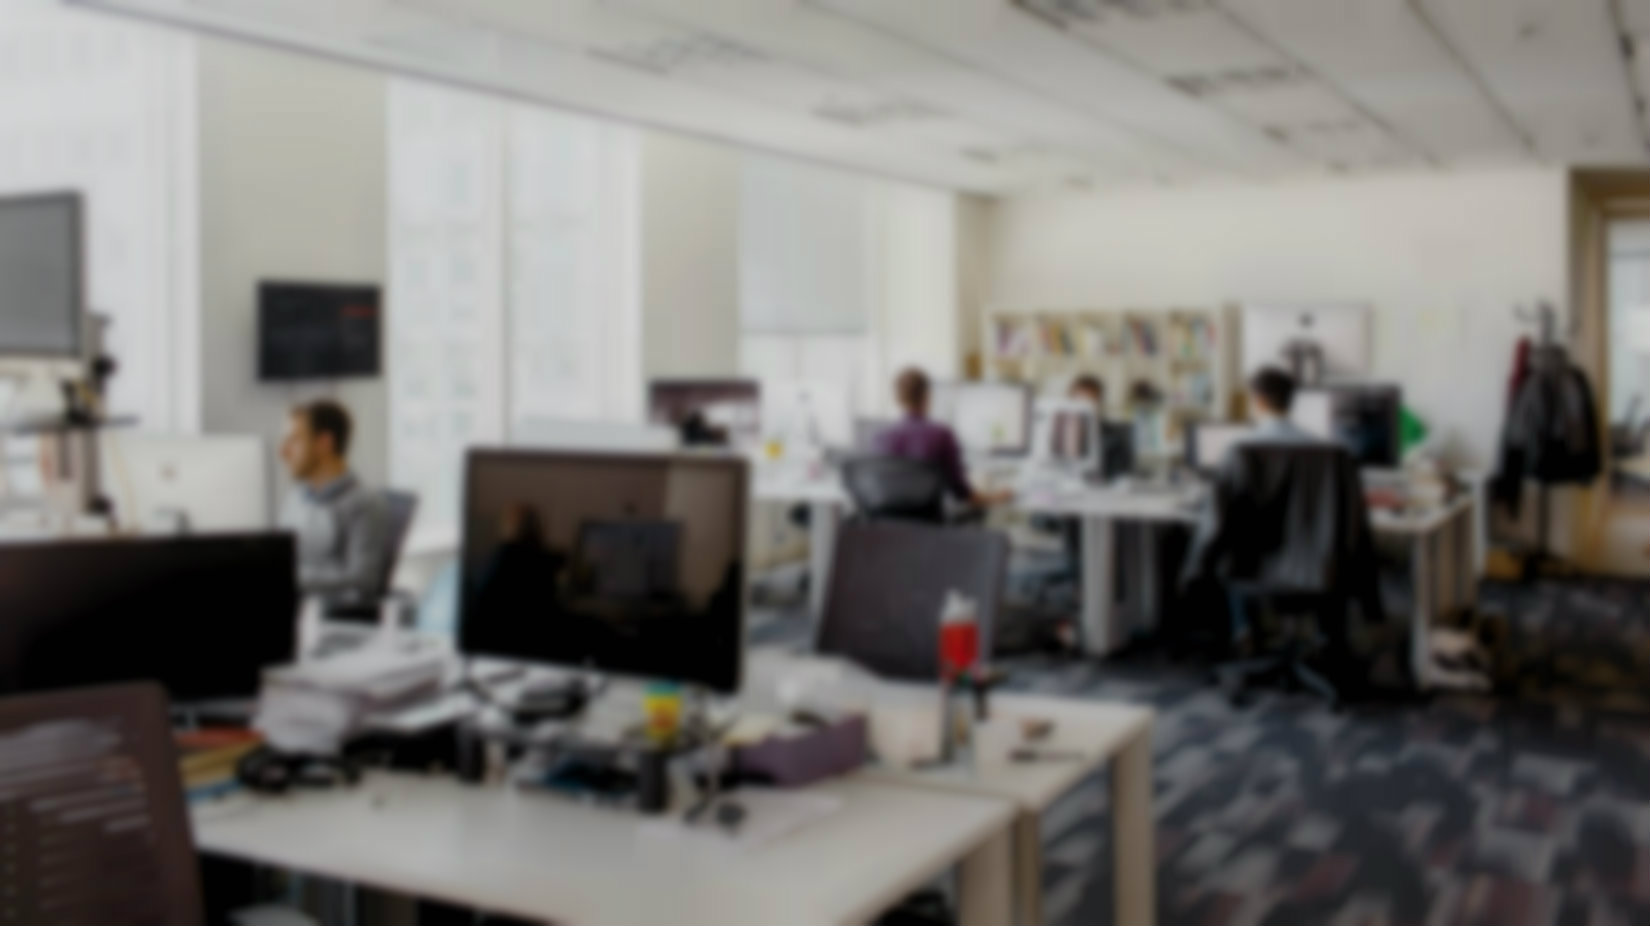
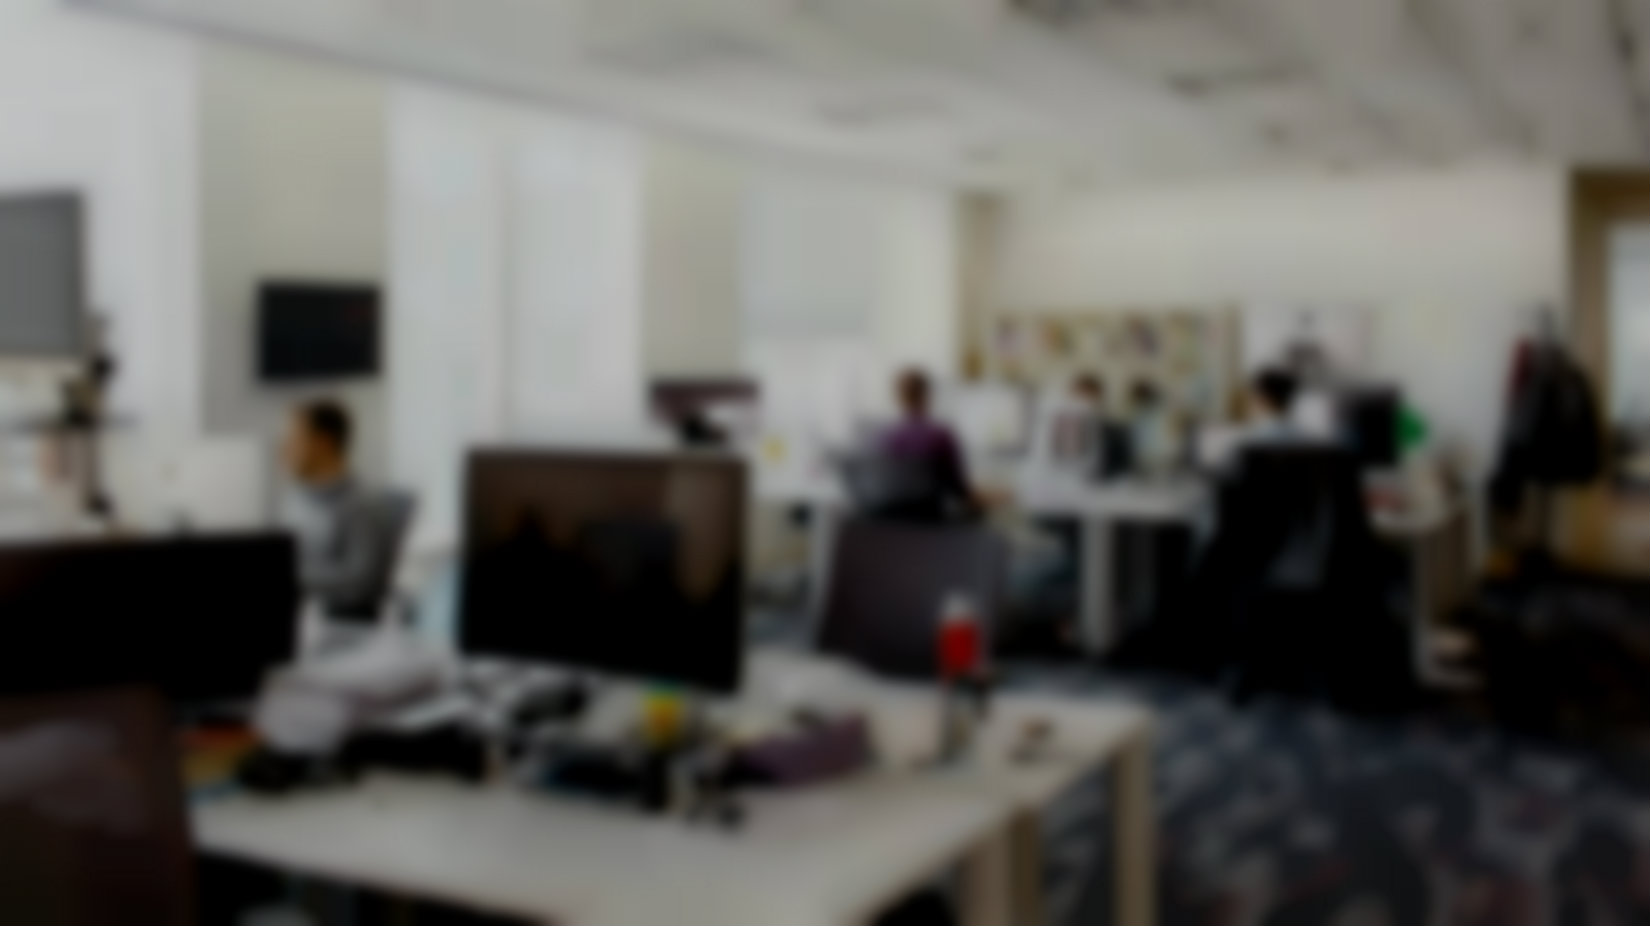
Added a simple descriptive webapp to enhance our pitching and venturing skills

diff --git a/web/index.html b/web/index.html
@@ -5,12 +5,13 @@
     <meta http-equiv="X-UA-Compatible" content="IE=edge">
     <meta name="viewport" content="width=device-width, initial-scale=1">
 
-    <title>Virtuwallet</title>
+    <title>Transactual</title>
 
     <link rel="stylesheet" type="text/css" href="css/style.css">
     <link rel="stylesheet" type="text/css" href="css/bootstrap.min.css">
 
-    <link href="https://fonts.googleapis.com/css?family=Fira+Sans|Kanit" rel="stylesheet">
+    <script src="https://use.fontawesome.com/f340fcd75c.js"></script>
+    <link href="https://fonts.googleapis.com/css?family=Work+Sans|Kanit" rel="stylesheet">
     <link rel="shortcut icon" href="favicon.png" type="image/png">
 
   </head>
@@ -18,10 +19,28 @@
   <body>
 
     <div id="intro">
-      <h1>Virtuwallet</h1>
-      <h2>Know how much you spend virtually.</h2>
-      <button type="button"></button>
-      <p></p>
+      <i class="fa fa-money fa-4x introText" aria-hidden="true"></i>
+      <h1 class="introText">Transactual</h1>
+      <h2 class="introText">Know how much you spend virtually.</h2>
+      <button id="introBtn" class="btn btn-default" type="button">Try it out!</button>
+    </div>
+
+    <div id="description">
+      <i class="fa fa-lightbulb-o fa-4x" aria-hidden="true" style="padding-bottom:10px"></i>
+      <p class="descriptionText">With cutting-edge technology making payments faster more intuitive,
+         it's important to keep track of your spendings. Transactual is a program that will help you track your phone tap
+           spendings.<br>Just message the program bot and ask for things like,<br><br>
+         <i>"How much did I spend on my last transaction?"</i> <br>or<br>
+         <i>"What were my spendings last week?"</i><br><br> Transactual will answer your question in mere seconds, giving you the flexibility and swiftness
+         that third party apps and websites cannot provide.<br><br>Now, go back to reading that magazine or sipping that capuccino, and be assured in your everyday spendings.</p>
+         <button id="descriptionBtn" class="btn btn-default" type="button">Continue</button>
+    </div>
+
+    <div id="demo">
+      <p class="demoText d1">Lorem ipsum dolor sit amet, donec dui sed facilisi dui, id montes aliquid nulla etiam, quam porro, aliquam vel in morbi sit, wisi odio. Justo non lorem ornare, etiam erat non luctus velit vestibulum. Tempus id, consectetuer nibh in amet condimentum adipiscing, pede dolor suscipit sit, augue aliquam auctor in convallis sed. </p>
+      <p class="demoText d2" style="padding-top:20vh"><i>"This shit is lit!"</i>  <span style="font-size:16px"> - Transactual devs</span></p>
+      <p class="demoText d2"><i>"Is my pizza here yet?"</i>  <span style="font-size:16px"> - Jackson</span></p>
+      <img src="hand.png" style="width:40%;padding-right:">
     </div>
 
 

diff --git a/web/css/style.css b/web/css/style.css
@@ -1,23 +1,116 @@
-#intro{
-  text-align: center;
-  display: block;
+body{
   width: 100vw;
   height: 100vh;
   background-image: url("wall.jpg");
   background-repeat: no-repeat;
   background-size: cover;
   background-position: center;
+  background-attachment: fixed;
+}
+
+#intro{
+  display: block;
+  text-align: center;
+  position: fixed;
+  width: 100vw;
+  height: 100vh;
+}
+
+#description{
+  display: block;
+  text-align: center;
+  position: fixed;
+  width: 100vw;
+  height: 100vh;
+  right: -100vw;
+  top: 0;
+  opacity: 0;
+}
+
+#demo{
+  display: block;
+  text-align: center;
+  position: fixed;
+  width: 100vw;
+  height: 100vh;
+  opacity: 0;
+  right: -200vw;
+}
+
+.d1{
+  line-height: 30px;
+  float: left;
+  text-align: left;
+  width: 35vw;
+  padding-left: 5vw;
+  padding-top: 20vh;
+}
+
+.demoText{
+  font-family: 'Work Sans', sans-serif;
+  font-size: 20px;
+  color: #FFF;
+}
+
+.d2{
+  float: right;
+  padding-top: 5vh;
+  padding-right: 5vw;
+  line-height: 35px;
+  font-size: 30px;
+}
+
+.descriptionText{
+  font-family: 'Work Sans', sans-serif;
+  font-size: 20px;
+  width: 80vw;
+  padding-left: 20vw;
+  color: #FFF;
 }
 
 #intro h1{
-  padding-top: 30vh;
-  font-size: 40px;
-  font-family: 'Kanit', sans-serif;
-  color: #FFF;
+  font-size: 60px;
 }
 
 #intro h2{
+  padding-top: 15px;
   font-size: 20px;
+}
+
+.introText{
+  opacity: 0;
   font-family: 'Kanit', sans-serif;
   color: #FFF;
+  line-height: 30px;
+}
+
+
+.fa-money{
+  color: #FFF;
+  padding-top: 30vh;
+}
+
+.fa-lightbulb-o{
+  color: #FFF;
+  padding-top: 10vh;
+}
+
+#introBtn{
+  opacity: 0;
+  width: 200px;
+  color: #FFF;
+  background-color: rgba(0,0,0,0.3);
+  margin-top: 10px;
+}
+
+#descriptionBtn{
+  opacity: 0;
+  width: 200px;
+  color: #FFF;
+  margin-top: 10px;
+  background-color: rgba(0,0,0,0.3);
+}
+
+i{
+  color: #66ff66;
 }

diff --git a/web/js/script.js b/web/js/script.js
@@ -1,0 +1,35 @@
++function(){
+
+  $(document).ready(function(){
+    $('html,body').animate({scrollTop: 0},'fast');
+    $(".introText").delay(1000).fadeTo(500,1);
+    $("#introBtn").delay(1500).fadeTo(1000,1);
+  })
+
+$("#introBtn").click(function(){
+  $("#intro").animate({
+    right:"100vw",
+    opacity: "0"
+  },1000);
+  $("#description").animate({
+    right:"0vw",
+    bottom: "0",
+    opacity: "1"
+  },1000);
+  $("#descriptionBtn").delay(1500).fadeTo(500,1);
+});
+
+$("#descriptionBtn").click(function(){
+  $("#description").animate({
+    right:"100vw",
+    opacity:"0"
+  },1000);
+  $("#demo").animate({
+    right:"0vw",
+    opacity:"1"
+  },1000);
+  $(".d1").delay(500).fadeTo(500,1);
+  $(".d2").delay(1000).fadeTo(500,1);
+})
+
+}(jQuery);
